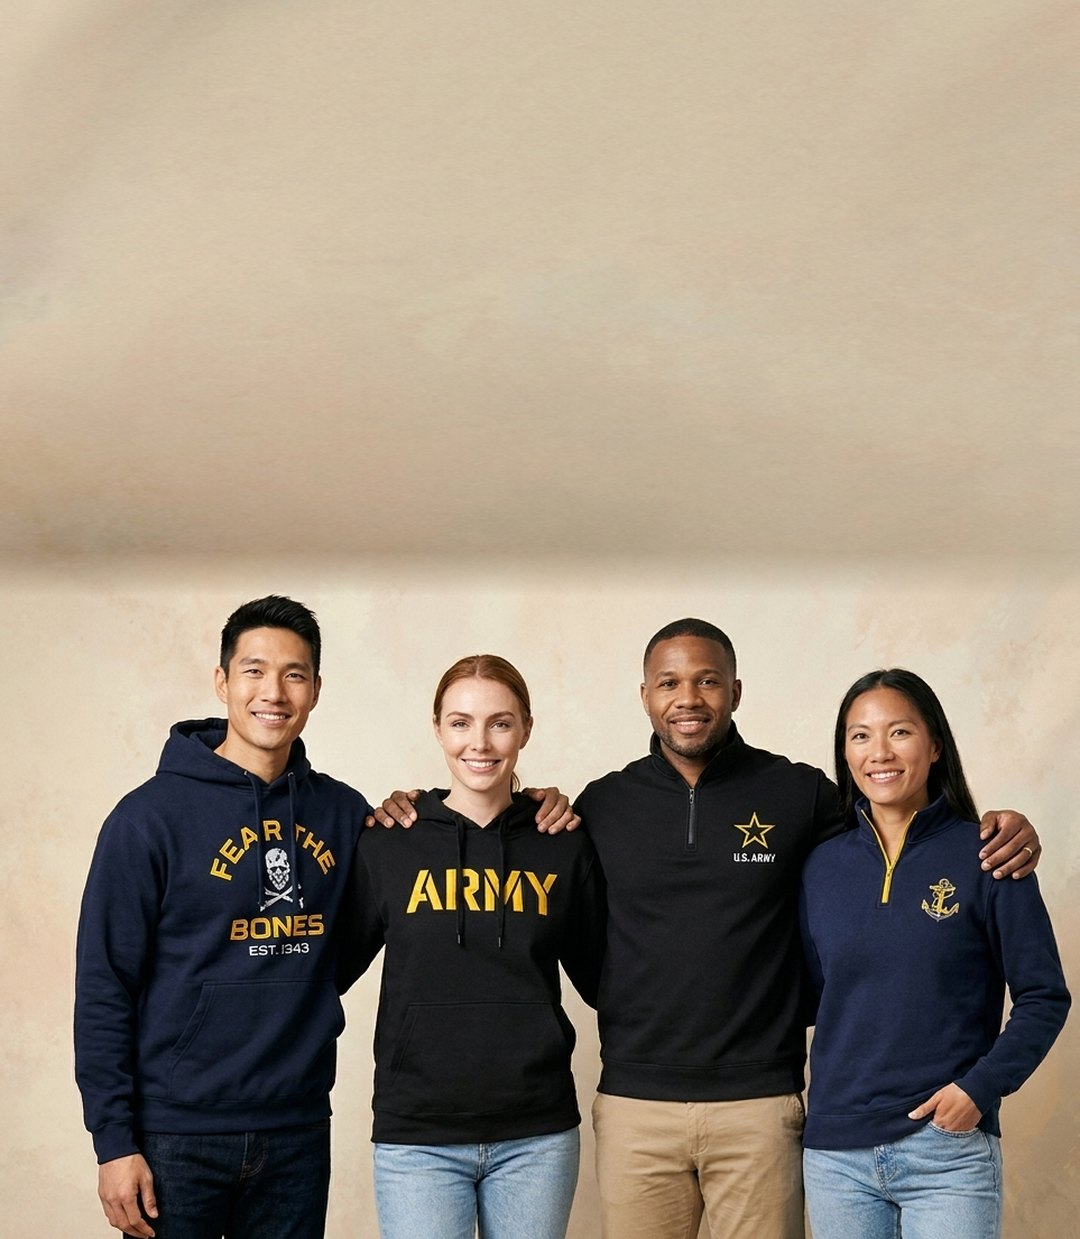
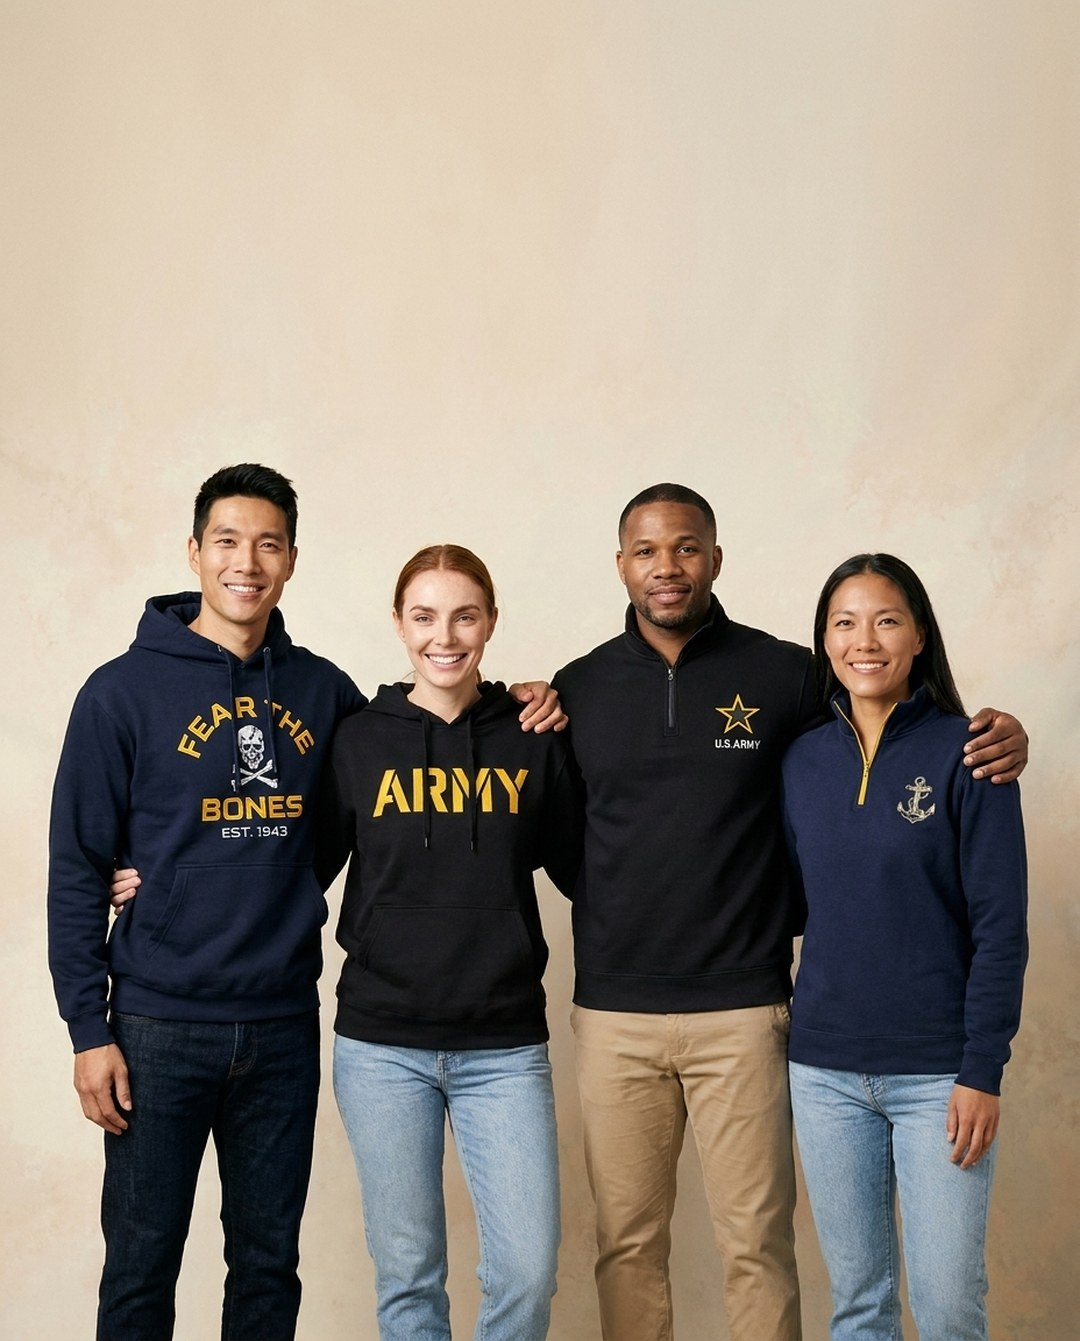
Homepage v14: Rivalry as a new-collection drop section, seamless mobile sale photo from Marpipe

diff --git a/index.html b/index.html
@@ -192,6 +192,23 @@ body{background:var(--frame);color:var(--frame-fg);font-family:var(--f);font-siz
 .s .brs9 a:hover .n i{opacity:1;transform:none}
 .s .brs9.two{grid-template-columns:1fr 1fr;gap:20px}
 .s .brs9.two img{max-height:780px}
+/* RIVALRY drop */
+.s .riv{background:#111820;color:#fff;margin-top:var(--gap);padding:64px 0 70px}
+.s .riv .rh{text-align:center;display:grid;gap:12px;justify-items:center;margin-bottom:40px}
+.s .riv .new{font-size:12px;letter-spacing:1px;color:#fff;border:1px solid rgba(255,255,255,.45);padding:5px 12px;border-radius:20px}
+.s .riv h2{margin:0;font-size:clamp(32px,4.6vw,64px);font-weight:300;letter-spacing:-1px;line-height:1}
+.s .riv p{margin:0;color:#aab3c2;font-size:15px}
+.s .riv .rg{display:grid;grid-template-columns:1fr 1fr;gap:0}
+.s .riv .side{display:grid;gap:18px;align-content:start;padding:0 22px}
+.s .riv .side+.side{border-left:1px solid rgba(255,255,255,.22)}
+.s .riv .ph{position:relative;display:block;overflow:hidden}
+.s .riv .ph img{width:100%;aspect-ratio:4/5;object-fit:cover;max-height:700px;transition:transform 1s ease}
+.s .riv .ph:hover img{transform:scale(1.03)}
+.s .riv .nm{position:absolute;left:22px;bottom:16px;font-size:clamp(40px,5vw,72px);font-weight:900;text-transform:uppercase;color:#fff;letter-spacing:-1px;text-shadow:0 2px 18px rgba(0,0,0,.25)}
+.s .riv .mini{display:grid;grid-template-columns:repeat(4,1fr);gap:10px}
+.s .riv .mini .pc .im{background:#fff}
+.s .riv .mini .pc .pt{color:#e7ebf1;font-size:12px}.s .riv .mini .pc .pp{color:#aab3c2}
+.s .riv .go{justify-self:start;font-size:12px;font-weight:500;letter-spacing:2px;text-transform:uppercase;border-bottom:1px solid currentColor;padding-bottom:3px}
 /* carrusel: que se note que se desliza */
 .s .railwrap{position:relative}
 .s .railwrap::after{content:"";position:absolute;top:0;right:0;bottom:46px;width:90px;background:linear-gradient(90deg,rgba(255,255,255,0),#fff);pointer-events:none}
@@ -252,6 +269,13 @@ body{background:var(--frame);color:var(--frame-fg);font-family:var(--f);font-siz
   .s .brs9{grid-auto-flow:column;grid-template-columns:none;grid-auto-columns:72%;overflow-x:auto;scrollbar-width:none;gap:10px;scroll-snap-type:x mandatory}
   .s .brs9 a{scroll-snap-align:start}
   .s .brs9.two{grid-auto-columns:82%}
+  .s .riv{padding:44px 0 48px}
+  .s .riv .rg{grid-template-columns:1fr;gap:34px}
+  .s .riv .side{padding:0}
+  .s .riv .side+.side{border-left:0;border-top:1px solid rgba(255,255,255,.22);padding-top:34px}
+  .s .riv .mini{grid-template-columns:1fr 1fr}
+  .s .riv .mini .pc:nth-child(n+3){display:none}
+
   .s .brs9 .n{left:16px;bottom:14px}
   .s .brs8{grid-auto-flow:column;grid-template-columns:none;grid-auto-columns:40%;overflow-x:auto;scrollbar-width:none;gap:10px}
   .s .rail{grid-auto-columns:44%}
@@ -352,13 +376,13 @@ body{background:var(--frame);color:var(--frame-fg);font-family:var(--f);font-siz
     </div>
   </section>
 
-  <!-- ARMY VS NAVY -->
-  <section class="sec" data-note="ARMY VS NAVY: dos fotos nuevas en el mismo estudio (sin estadio, menos contexto), mismo encuadre, productos Rivalry 2026. Cada lado separado.">
+  <!-- RIVALRY: lanzamiento de colección nueva -->
+  <section class="riv" data-note="RIVALRY como LANZAMIENTO: sección oscura de lado a lado, título grande, las dos fotos juntas separadas por una línea (rivales, sin tocarse) y los productos reales de cada lado debajo. Se ve como drop nuevo, no como otra colección.">
     <div class="wrap">
-      <div class="sh"><h2 class="h2">2026 Army vs. Navy Rivalry</h2><span class="va">Game day Dec 12</span></div>
-      <div class="brs9 two">
-        <a><img src="img/v8/avn_navy.jpg" alt="Hombre con hoodie Navy Under Armour 2026 Rivalry digi camo" loading="lazy"><span class="n"><b>Shop Navy</b><i>→</i></span></a>
-        <a><img src="img/v8/avn_army.jpg" alt="Hombre con crewneck Army Nike 2026 Rivalry Beat Navy" loading="lazy"><span class="n"><b>Shop Army</b><i>→</i></span></a>
+      <div class="rh"><span class="new">New · Limited 2026 drop</span><h2>The 2026 Rivalry Collection</h2><p>Army vs. Navy. Game day is Saturday, December 12.</p></div>
+      <div class="rg">
+        <div class="side"><a class="ph"><img src="img/v8/avn_navy.jpg" alt="Hombre con hoodie Navy Under Armour 2026 Rivalry digi camo" loading="lazy"><span class="nm">Navy</span></a><div class="mini"><a class="pc"><div class="im"><img src="img/live/p/navy-under-armour-2026-rivalry-mens-football-repli.jpg" alt="Navy Under Armour 2026 Rivalry Men&#x27;s Football Replica Jersey (White)" loading="lazy"></div><p class="pt">Navy Under Armour 2026 Rivalry Men&#x27;s Football Replica Jersey (White)</p><p class="pp">$120.00</p></a><a class="pc"><div class="im"><img src="img/live/p/navy-under-armour-2026-rivalry-icon-taped-hood-dig.jpg" alt="Navy Under Armour 2026 Rivalry Icon Taped Hood (Digi Camo)" loading="lazy"></div><p class="pt">Navy Under Armour 2026 Rivalry Icon Taped Hood (Digi Camo)</p><p class="pp">$112.00</p></a><a class="pc"><div class="im"><img src="img/live/p/navy-under-armour-2026-rivalry-icon-taped-fleece-f.jpg" alt="Navy Under Armour 2026 Rivalry Icon Taped Fleece Full Zip (Tidal Blue)" loading="lazy"></div><p class="pt">Navy Under Armour 2026 Rivalry Icon Taped Fleece Full Zip (Tidal Blue)</p><p class="pp">$115.00</p></a><a class="pc"><div class="im"><img src="img/live/p/navy-under-armour-2026-rivalry-playoff-quarter-zip.jpg" alt="Navy Under Armour 2026 Rivalry Playoff Quarter Zip (Tidal Blue)" loading="lazy"></div><p class="pt">Navy Under Armour 2026 Rivalry Playoff Quarter Zip (Tidal Blue)</p><p class="pp">$105.00</p></a></div><a class="go">Shop Navy Rivalry</a></div>
+        <div class="side"><a class="ph"><img src="img/v8/avn_army.jpg" alt="Hombre con crewneck Army Nike 2026 Rivalry Beat Navy" loading="lazy"><span class="nm">Army</span></a><div class="mini"><a class="pc"><div class="im"><img src="img/live/p/army-nike-2026-rivalry-american-flag-club-fleece-h.jpg" alt="Army Nike 2026 Rivalry American Flag Club Fleece Hood (Sport Green)" loading="lazy"></div><p class="pt">Army Nike 2026 Rivalry American Flag Club Fleece Hood (Sport Green)</p><p class="pp">$105.00</p></a><a class="pc"><div class="im"><img src="img/live/p/army-nike-2026-rivalry-beat-navy-club-fleece-crewn.jpg" alt="Army Nike 2026 Rivalry Beat Navy Club Fleece Crewneck (Black)" loading="lazy"></div><p class="pt">Army Nike 2026 Rivalry Beat Navy Club Fleece Crewneck (Black)</p><p class="pp">$100.00</p></a><a class="pc"><div class="im"><img src="img/live/p/army-nike-2026-rivalry-club-fleece-1-2-top-black.jpg" alt="Army Nike 2026 Rivalry Club Fleece 1/2 Top (Black)" loading="lazy"></div><p class="pt">Army Nike 2026 Rivalry Club Fleece 1/2 Top (Black)</p><p class="pp">$90.00</p></a><a class="pc"><div class="im"><img src="img/live/p/army-nike-2026-rivalry-west-point-club-fleece-hood.jpg" alt="Army Nike 2026 Rivalry West Point Club Fleece Hood (Black)" loading="lazy"></div><p class="pt">Army Nike 2026 Rivalry West Point Club Fleece Hood (Black)</p><p class="pp">$95.00</p></a></div><a class="go">Shop Army Rivalry</a></div>
       </div>
     </div>
   </section>
